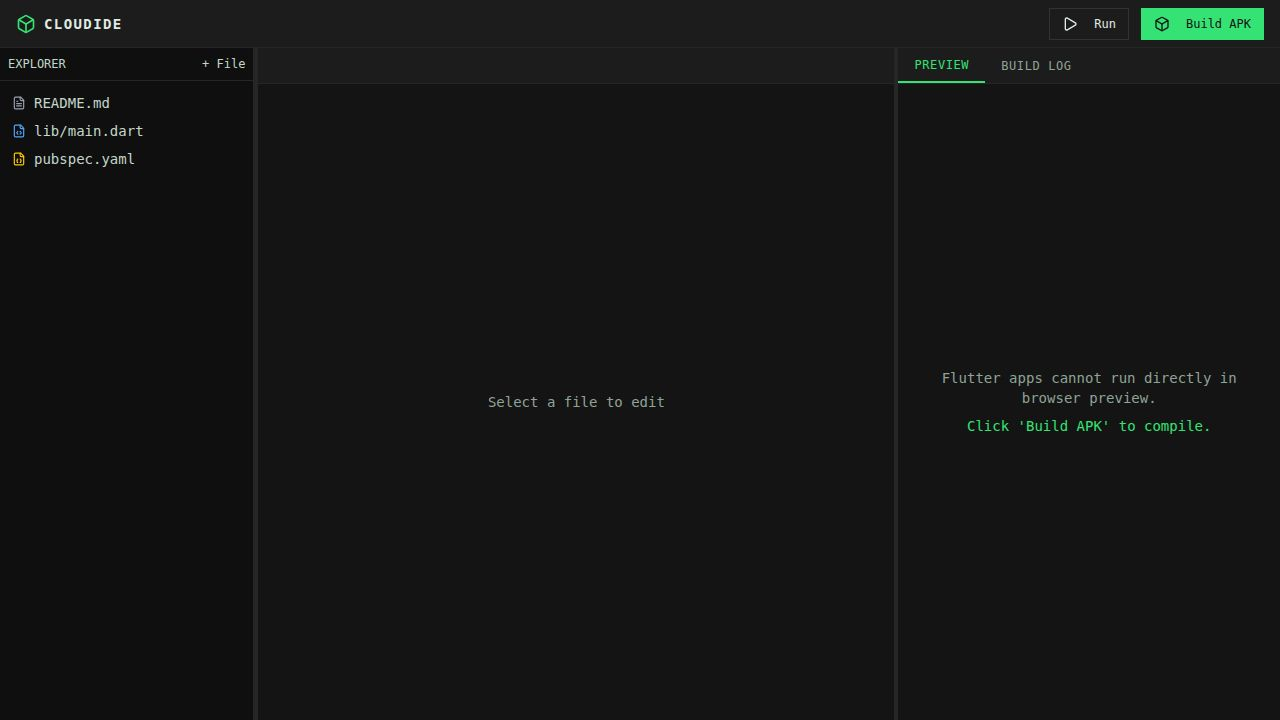
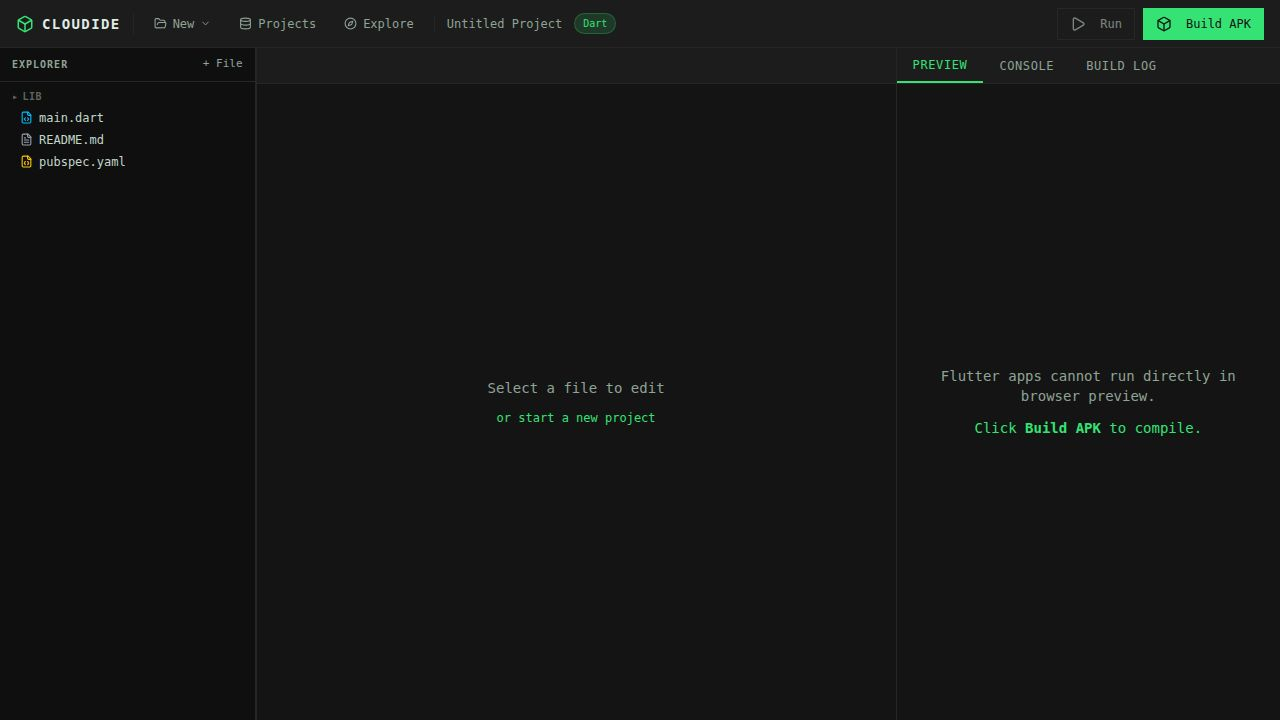
Improve project management features and system reliability
Update ProjectsModal.tsx to correctly handle project naming and add attached asset files related to platform upgrade.

Replit-Commit-Author: Agent
Replit-Commit-Session-Id: eed8f2a4-517e-40d8-8493-18b3ffd0f6fd
Replit-Commit-Checkpoint-Type: full_checkpoint
Replit-Commit-Event-Id: e4eff84b-54df-4eef-8f59-c20a217f9108
Replit-Commit-Screenshot-Url: https://storage.googleapis.com/screenshot-production-us-central1/f5ec4fde-511b-42c1-8dd0-e56f3a0525f3/eed8f2a4-517e-40d8-8493-18b3ffd0f6fd/cQcsBBI
Replit-Helium-Checkpoint-Created: true

diff --git a/artifacts/cloud-ide/src/components/ProjectsModal.tsx b/artifacts/cloud-ide/src/components/ProjectsModal.tsx
@@ -75,7 +75,7 @@ export function ProjectsModal({
     if (!name && !currentProjectId) { setSaveError("Name is required"); return; }
     setSaving(true);
     setSaveError(null);
-    const effectiveName = name || projects.find((p) => p.id === currentProjectId)?.name ?? "Untitled";
+    const effectiveName = name || (projects.find((p) => p.id === currentProjectId)?.name ?? "Untitled");
     const saved = await saveProject(effectiveName, currentProjectType, currentFiles, currentProjectId ?? undefined);
     setSaving(false);
     if (saved) { onSaved(saved.id, saved.name); onClose(); }